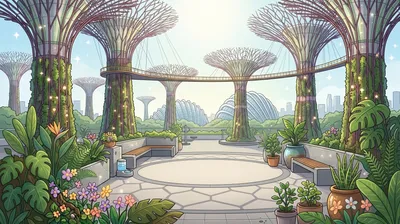
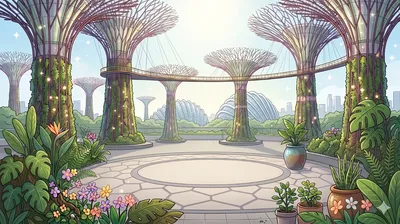
Garden habitat: regenerate thumb from refreshed landscape (400x224 webp)

diff --git a/scripts/regen-garden-thumb.ts b/scripts/regen-garden-thumb.ts
@@ -1,0 +1,17 @@
+// Regenerate landscape_garden_thumb.webp from landscape_garden.png.
+// Matches the 400x224 (16:9) format of the other habitat thumbs.
+import sharp from "sharp";
+import path from "path";
+
+async function main() {
+  const src = path.join(process.cwd(), "public/avatars/landscape_garden.png");
+  const dst = path.join(process.cwd(), "public/avatars/landscape_garden_thumb.webp");
+  await sharp(src)
+    .resize(400, 224, { fit: "cover", position: "center" })
+    .webp({ quality: 80 })
+    .toFile(dst);
+  const stat = await sharp(dst).metadata();
+  console.log(`Wrote ${dst} — ${stat.width}x${stat.height}`);
+}
+
+main();
